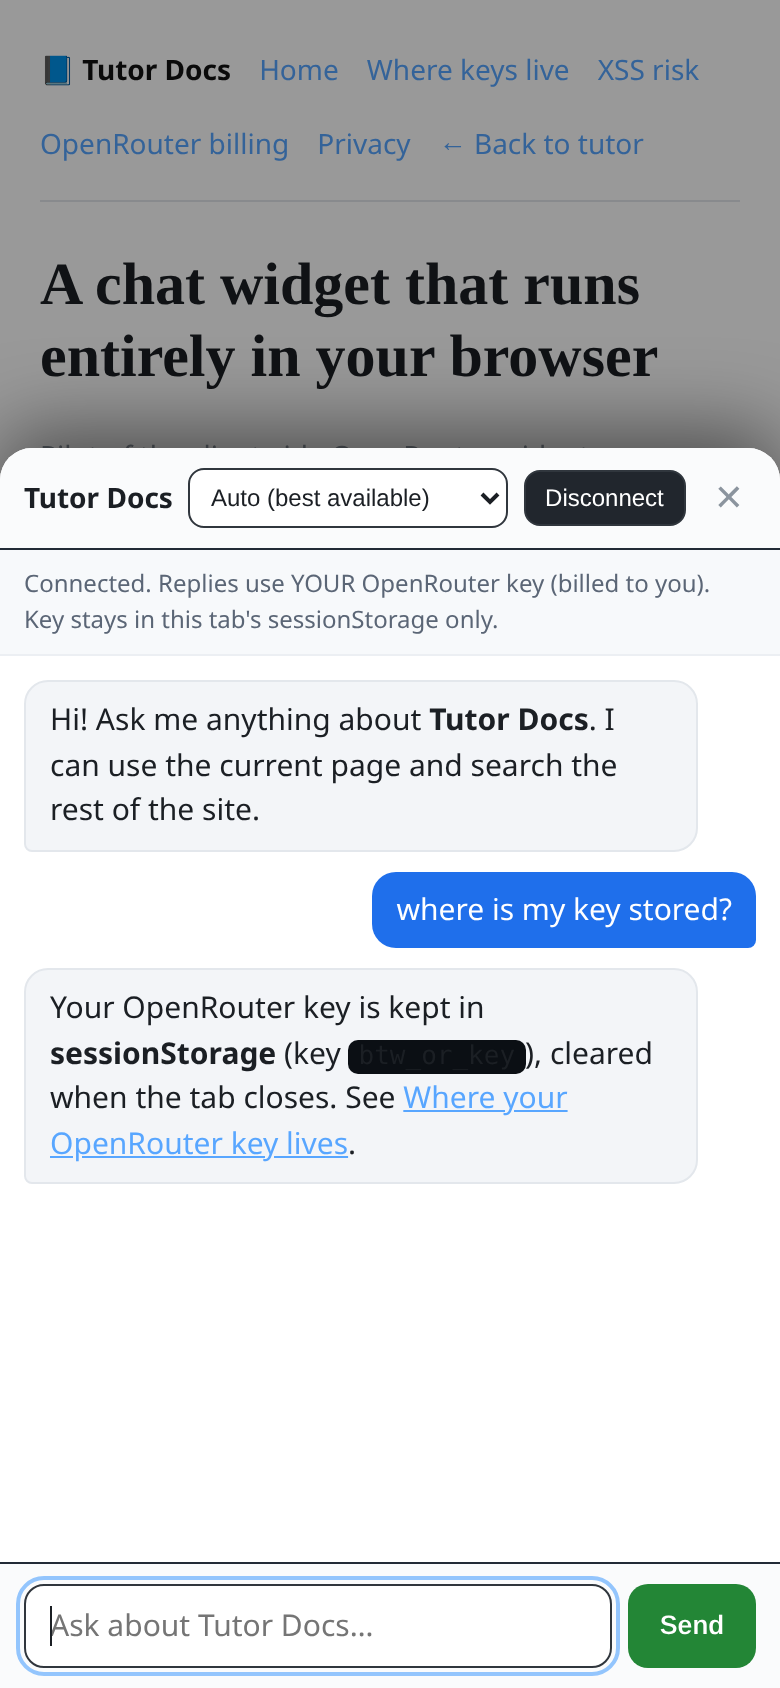
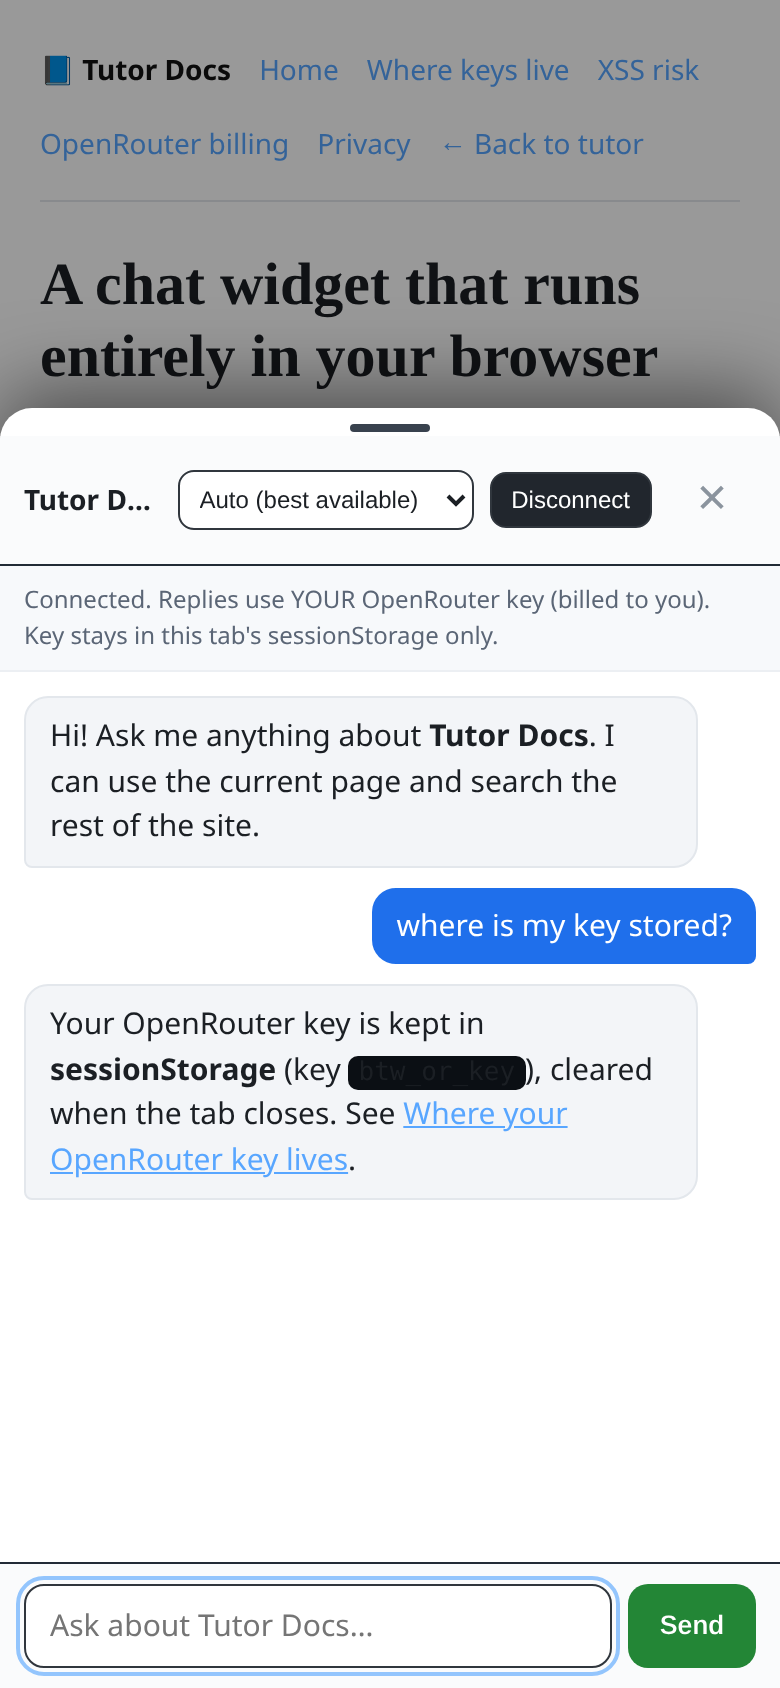
Fix mobile widget: sheet now actually hides/closes + stays on-screen
Root cause: .btw-sheet { display:flex } (author CSS) overrode the [hidden]
attribute's UA display:none, so sheet.hidden=true never visually hid the panel
— the sheet stayed on screen and the close button could not dismiss it
('chat doesn't close' / 'not working'). On mobile this was compounded by
horizontal overflow from non-wrapping <code>/long URLs, which expanded the
layout viewport and pushed the fixed FAB/sheet off the visible screen.

Fixes (mobile-first):
- .btw-sheet[hidden]/.btw-backdrop[hidden] -> display:none !important (real
  open/close). Tests now assert COMPUTED visibility, not the .hidden property
  (which masked the bug).
- widget-page.css: wrap code/long URLs + html,body overflow-x:hidden -> no
  horizontal overflow at 390px; fixed widget stays on-screen.
- Close button >=44x44 tap target; FAB + composer respect safe-area insets.
- VisualViewport-based sheet fitting (keeps it above the keyboard / on-screen).
- More ways to close: backdrop tap, Escape, Android back button (history
  pushState/popstate), and swipe-down on a new grab handle.
- Typing allowed BEFORE connecting; Send now shows a visible 'Connect
  OpenRouter first' prompt (pulses the button) instead of doing nothing.
- OAuth exchange failures surface a visible message in the sheet (no silent fail).

Verified real OpenRouter (no key, not mocks): CORS + CSP connect-src allow
openrouter.ai; auth/keys dummy -> readable 400, chat bogus key -> readable 401,
[…]

Changed region(s): [[0.0, 0.2156, 1.0, 0.7085]]

diff --git a/public/widget.js b/public/widget.js
@@ -321,6 +321,7 @@
 
     var sheet = h("div", "btw-sheet"); sheet.setAttribute("role", "dialog"); sheet.setAttribute("aria-modal", "true");
     sheet.setAttribute("aria-label", "Chat with " + cfg.siteName); sheet.hidden = true;
+    var grip = h("div", "btw-grip"); grip.setAttribute("aria-hidden", "true"); grip.title = "Drag down to close";
 
     var head = h("div", "btw-head");
     var title = h("strong", "btw-title", cfg.siteName);
@@ -339,24 +340,55 @@
     var sendBtn = h("button", "btw-send", "Send"); sendBtn.type = "submit";
     form.appendChild(ta); form.appendChild(sendBtn);
 
-    sheet.appendChild(head); sheet.appendChild(note); sheet.appendChild(log); sheet.appendChild(form);
+    sheet.appendChild(grip); sheet.appendChild(head); sheet.appendChild(note); sheet.appendChild(log); sheet.appendChild(form);
     root.appendChild(fab); root.appendChild(backdrop); root.appendChild(sheet);
     document.body.appendChild(root);
 
     var history = loadHistory();
 
-    function open() { backdrop.hidden = false; sheet.hidden = false; fab.setAttribute("aria-expanded", "true"); refresh(); setTimeout(function () { ta.focus(); }, 50); }
-    function closeSheet() { backdrop.hidden = true; sheet.hidden = true; fab.setAttribute("aria-expanded", "false"); }
-    fab.addEventListener("click", open);
-    close.addEventListener("click", closeSheet);
-    backdrop.addEventListener("click", closeSheet);
+    // Keep the sheet inside the VISIBLE (visual) viewport, above the mobile keyboard, and on-screen even
+    // if the host page has horizontal/vertical overflow (which otherwise pushes fixed elements off-screen).
+    function fit() {
+      var vv = window.visualViewport; if (!vv) return;
+      sheet.style.height = Math.min(Math.round(vv.height * 0.92), 640) + "px";
+      sheet.style.bottom = Math.max(0, Math.round(window.innerHeight - vv.height - vv.offsetTop)) + "px";
+    }
+    if (window.visualViewport) {
+      window.visualViewport.addEventListener("resize", function () { if (!sheet.hidden) fit(); });
+      window.visualViewport.addEventListener("scroll", function () { if (!sheet.hidden) fit(); });
+    }
+
+    var pushed = false;
+    function open() {
+      if (!sheet.hidden) return;
+      backdrop.hidden = false; sheet.hidden = false; fab.setAttribute("aria-expanded", "true");
+      try { if (!pushed) { window.history.pushState({ btwOpen: 1 }, ""); pushed = true; } } catch (e) {}
+      fit(); refresh(); setTimeout(function () { try { ta.focus(); } catch (e) {} }, 50);
+    }
+    function closeSheet(fromPop) {
+      if (sheet.hidden) return;
+      backdrop.hidden = true; sheet.hidden = true; sheet.style.transform = ""; fab.setAttribute("aria-expanded", "false");
+      if (pushed && !fromPop) { try { window.history.back(); } catch (e) { pushed = false; } } else { pushed = false; }
+    }
+    fab.addEventListener("click", function () { open(); });
+    close.addEventListener("click", function () { closeSheet(); });
+    backdrop.addEventListener("click", function () { closeSheet(); });
     document.addEventListener("keydown", function (e) { if (e.key === "Escape" && !sheet.hidden) closeSheet(); });
+    // Android hardware/gesture back closes the sheet instead of leaving the page.
+    window.addEventListener("popstate", function () { pushed = false; if (!sheet.hidden) closeSheet(true); });
+    // Swipe the grip down to dismiss.
+    (function () {
+      var sy = null, cy = null;
+      grip.addEventListener("touchstart", function (e) { sy = e.touches[0].clientY; cy = sy; }, { passive: true });
+      grip.addEventListener("touchmove", function (e) { if (sy == null) return; cy = e.touches[0].clientY; sheet.style.transform = "translateY(" + Math.max(0, cy - sy) + "px)"; }, { passive: true });
+      grip.addEventListener("touchend", function () { if (sy == null) return; var dy = (cy || sy) - sy; sheet.style.transform = ""; if (dy > 80) closeSheet(); sy = cy = null; });
+    })();
 
     function refresh() {
       var on = connected();
       conn.textContent = on ? "Disconnect" : "Connect OpenRouter";
       conn.className = "btw-conn" + (on ? " on" : "");
-      sel.disabled = !on; ta.disabled = !on; sendBtn.disabled = !on;
+      sel.disabled = !on; ta.disabled = false; sendBtn.disabled = false; // typing allowed pre-connect; Send prompts to connect
       note.textContent = on
         ? "Connected. Replies use YOUR OpenRouter key (billed to you). Key stays in this tab's sessionStorage only."
         : "Connect your own OpenRouter account to chat. Your key stays in this tab only (sessionStorage) and you pay for usage.";
@@ -392,7 +424,13 @@
 
     var busy = false;
     async function submit() {
-      var q = ta.value.trim(); if (!q || busy || !connected()) return;
+      var q = ta.value.trim(); if (!q || busy) return;
+      if (!connected()) {
+        addMsg("assistant", "**Connect OpenRouter** first (button at the top of this panel) — then I can answer. Your key stays in this tab only and you pay for usage.");
+        conn.classList.add("pulse"); setTimeout(function () { conn.classList.remove("pulse"); }, 2200);
+        try { conn.focus(); } catch (e) {}
+        return;
+      }
       ta.value = ""; busy = true; sendBtn.disabled = true;
       addMsg("user", q); history.push({ role: "user", content: q }); saveHistory();
       var bot = addMsg("assistant", "…");
@@ -407,7 +445,7 @@
         else { bot.innerHTML = render(full); history.push({ role: "assistant", content: full }); saveHistory(); }
       } catch (e) {
         bot.innerHTML = render("⚠ " + friendly(String(e && e.message || e)));
-      } finally { busy = false; sendBtn.disabled = !connected(); }
+      } finally { busy = false; sendBtn.disabled = false; }
     }
 
     // Handle an OAuth return (?code&state) landing back on this same page.
@@ -415,15 +453,15 @@
       var qs = new URLSearchParams(location.search);
       var code = qs.get("code"), state = qs.get("state");
       if (!code || !state || !sget(K_PKCE)) return;
-      try {
-        await exchangeCode(code, state);
-      } catch (e) { /* ignore; user can retry */ }
+      var exErr = null;
+      try { await exchangeCode(code, state); } catch (e) { exErr = String((e && e.message) || e); }
       // Scrub the code/state from the URL without reload.
       qs.delete("code"); qs.delete("state");
       var clean = location.pathname + (qs.toString() ? "?" + qs.toString() : "") + location.hash;
       history.length = 0;
       try { window.history.replaceState({}, document.title, clean); } catch (e) {}
       open();
+      if (exErr) addMsg("assistant", "⚠ Could not finish connecting to OpenRouter (" + friendly(exErr) + "). Tap **Connect OpenRouter** to try again.");
     })();
 
     refresh();

diff --git a/public/widget.css b/public/widget.css
@@ -1,16 +1,22 @@
 /* OpenRouter chat widget — no inline styles needed; loads under a strict CSP. */
 .btw-root { position: fixed; inset: auto 0 0 auto; z-index: 2147483000; font: 15px/1.5 system-ui, -apple-system, Segoe UI, Roboto, sans-serif; }
-.btw-fab { position: fixed; right: 16px; bottom: 16px; z-index: 2; border: 0; border-radius: 999px; background: #2563eb; color: #fff; padding: 12px 18px; font-size: 15px; font-weight: 600; cursor: pointer; box-shadow: 0 6px 20px rgba(0,0,0,.25); }
+.btw-sheet[hidden], .btw-backdrop[hidden], .btw-fab[hidden] { display: none !important; }
+.btw-fab { position: fixed; right: calc(16px + env(safe-area-inset-right)); bottom: calc(16px + env(safe-area-inset-bottom)); z-index: 2; border: 0; border-radius: 999px; background: #2563eb; color: #fff; padding: 12px 18px; min-height: 48px; font-size: 15px; font-weight: 600; cursor: pointer; box-shadow: 0 6px 20px rgba(0,0,0,.25); touch-action: manipulation; }
 .btw-fab:hover { background: #1d4ed8; }
 .btw-fab:focus-visible, .btw-conn:focus-visible, .btw-close:focus-visible, .btw-send:focus-visible, .btw-model:focus-visible, .btw-input:focus-visible { outline: 2px solid #93c5fd; outline-offset: 2px; }
 .btw-backdrop { position: fixed; inset: 0; background: rgba(0,0,0,.4); z-index: 1; }
-.btw-sheet { position: fixed; right: 0; bottom: 0; left: 0; z-index: 3; margin: 0 auto; max-width: 480px; height: min(78vh, 620px); background: #0f141b; color: #e6edf3; border-radius: 16px 16px 0 0; box-shadow: 0 -8px 40px rgba(0,0,0,.5); display: flex; flex-direction: column; overflow: hidden; }
+.btw-sheet { position: fixed; right: 0; bottom: 0; left: 0; z-index: 3; margin: 0 auto; max-width: 480px; height: min(78vh, 620px); max-height: 100%; background: #0f141b; color: #e6edf3; border-radius: 16px 16px 0 0; box-shadow: 0 -8px 40px rgba(0,0,0,.5); display: flex; flex-direction: column; overflow: hidden; }
+.btw-grip { flex: 0 0 auto; width: 100%; padding: 8px 0 2px; display: flex; justify-content: center; cursor: grab; touch-action: none; }
+.btw-grip::before { content: ""; width: 40px; height: 4px; border-radius: 999px; background: #39424e; }
 .btw-head { display: flex; align-items: center; gap: 8px; padding: 10px 12px; border-bottom: 1px solid #222b36; }
 .btw-title { font-size: 14px; flex: 0 1 auto; white-space: nowrap; overflow: hidden; text-overflow: ellipsis; }
 .btw-model { flex: 1 1 auto; min-width: 0; background: #161b22; color: #e6edf3; border: 1px solid #30363d; border-radius: 8px; padding: 6px; font-size: 12px; }
 .btw-conn { flex: 0 0 auto; border: 1px solid #30363d; background: #1f6feb; color: #fff; border-radius: 8px; padding: 6px 10px; font-size: 12px; cursor: pointer; }
 .btw-conn.on { background: #21262d; }
-.btw-close { flex: 0 0 auto; border: 0; background: transparent; color: #8b949e; font-size: 18px; cursor: pointer; padding: 4px 6px; }
+.btw-conn.pulse { animation: btw-pulse 1s ease-in-out 2; }
+@keyframes btw-pulse { 0%,100% { box-shadow: 0 0 0 0 rgba(31,111,235,.6); } 50% { box-shadow: 0 0 0 6px rgba(31,111,235,0); } }
+.btw-close { flex: 0 0 auto; border: 0; background: transparent; color: #8b949e; font-size: 20px; line-height: 1; cursor: pointer; min-width: 44px; min-height: 44px; display: flex; align-items: center; justify-content: center; border-radius: 10px; touch-action: manipulation; }
+.btw-close:hover { background: #1b222c; color: #e6edf3; }
 .btw-note { padding: 8px 12px; font-size: 12px; color: #9aa7b4; border-bottom: 1px solid #1a212b; background: #0c1016; }
 .btw-log { flex: 1 1 auto; overflow-y: auto; padding: 12px; display: flex; flex-direction: column; gap: 10px; }
 .btw-msg { max-width: 92%; padding: 8px 12px; border-radius: 12px; word-wrap: break-word; overflow-wrap: anywhere; }
@@ -20,7 +26,7 @@
 .btw-assistant a { color: #58a6ff; } .btw-assistant code { background: #0b0f14; padding: 1px 5px; border-radius: 5px; font-size: 13px; }
 .btw-assistant pre { background: #0b0f14; padding: 10px; border-radius: 8px; overflow-x: auto; }
 .btw-assistant table { border-collapse: collapse; display: block; overflow-x: auto; } .btw-assistant th, .btw-assistant td { border: 1px solid #30363d; padding: 4px 8px; }
-.btw-composer { display: flex; gap: 8px; padding: 10px 12px; border-top: 1px solid #222b36; background: #0c1016; }
+.btw-composer { display: flex; gap: 8px; padding: 10px 12px calc(10px + env(safe-area-inset-bottom)); border-top: 1px solid #222b36; background: #0c1016; }
 .btw-input { flex: 1 1 auto; resize: none; background: #161b22; color: #e6edf3; border: 1px solid #30363d; border-radius: 10px; padding: 9px 12px; font: inherit; max-height: 120px; }
 .btw-input:disabled { opacity: .5; }
 .btw-send { flex: 0 0 auto; border: 0; border-radius: 10px; background: #238636; color: #fff; padding: 0 16px; font-weight: 600; cursor: pointer; }

diff --git a/public/widget-page.css b/public/widget-page.css
@@ -1,13 +1,15 @@
 /* Minimal styling for the widget pilot article pages (external; CSP style-src 'self'). */
 :root { color-scheme: dark light; }
 * { box-sizing: border-box; }
+html, body { max-width: 100%; overflow-x: hidden; }
 body { margin: 0; font: 17px/1.65 Georgia, "Times New Roman", serif; color: #e6edf3; background: #0d1117; }
 .wrap { max-width: 720px; margin: 0 auto; padding: 24px 20px 120px; }
 nav.site { font-family: system-ui, sans-serif; font-size: 14px; display: flex; flex-wrap: wrap; gap: 14px; padding-bottom: 16px; border-bottom: 1px solid #222b36; margin-bottom: 24px; }
 nav.site a { color: #58a6ff; text-decoration: none; } nav.site a:hover { text-decoration: underline; }
 nav.site .brand { font-weight: 700; color: #e6edf3; }
 h1 { font-size: 30px; line-height: 1.2; } h2 { font-size: 22px; margin-top: 32px; } h3 { font-size: 18px; }
-p { margin: 14px 0; } code { font-family: ui-monospace, Menlo, monospace; background: #161b22; padding: 1px 5px; border-radius: 5px; font-size: .9em; }
+p { margin: 14px 0; overflow-wrap: anywhere; } code { font-family: ui-monospace, Menlo, monospace; background: #161b22; padding: 1px 5px; border-radius: 5px; font-size: .9em; overflow-wrap: anywhere; word-break: break-word; }
+.callout { overflow-wrap: anywhere; } h1, h2, h3 { overflow-wrap: anywhere; }
 a { color: #58a6ff; } .muted { color: #8b949e; font-family: system-ui, sans-serif; font-size: 14px; }
 .callout { font-family: system-ui, sans-serif; font-size: 15px; background: #11161d; border: 1px solid #222b36; border-left: 3px solid #1f6feb; border-radius: 8px; padding: 12px 16px; margin: 20px 0; }
 @media (prefers-color-scheme: light) { body { color: #1b1f24; background: #fff; } nav.site { border-color: #e3e7ec; } nav.site .brand { color: #111; } code { background: #f3f5f8; } .callout { background: #f7f9fb; border-color: #e3e7ec; } }

diff --git a/README.md b/README.md
@@ -182,7 +182,8 @@ node scripts/openrouter-e2e.mjs    # mocked OpenRouter PKCE: login params, state
 node scripts/markdown-xss.mjs      # model output with <script>/<img onerror>/javascript: links is neutralised (marked + DOMPurify)
 node scripts/xss-lab-e2e.mjs       # XSS lab: payloads fire in vuln variants, blocked in fixed; isolation, frame-ancestors, no URL payloads (needs the lab origin on LAB_PORT)
 node scripts/widget-unit.mjs       # client-side widget: PKCE S256, BM25 retrieval, page-text cleaning, delimited context builder
-node scripts/widget-e2e.mjs        # widget pilot /widget/: loads under the meta CSP with zero violations; mocked OpenRouter connect -> chat stream (cited) -> disconnect wipes storage
+node scripts/widget-e2e.mjs        # widget pilot: real-touch mobile open/close/reopen (backdrop, Android back), no overflow, 44px targets, pre-connect prompt; mocked connect -> chat (cited) -> disconnect
+node scripts/widget-openrouter-live.mjs  # widget against the REAL OpenRouter (no key): auth/keys dummy -> readable 400, chat bogus key -> readable 401, CORS/CSP ok (errors surface, not silent)
 node scripts/e2e-mobile.mjs        # responsive checks at 360/390/768/1280 (needs: npm i --no-save puppeteer-core@23)
 ```
 
